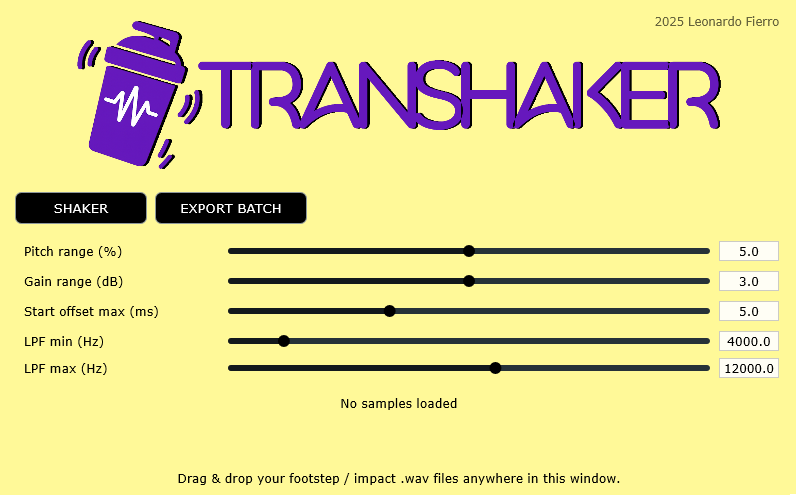
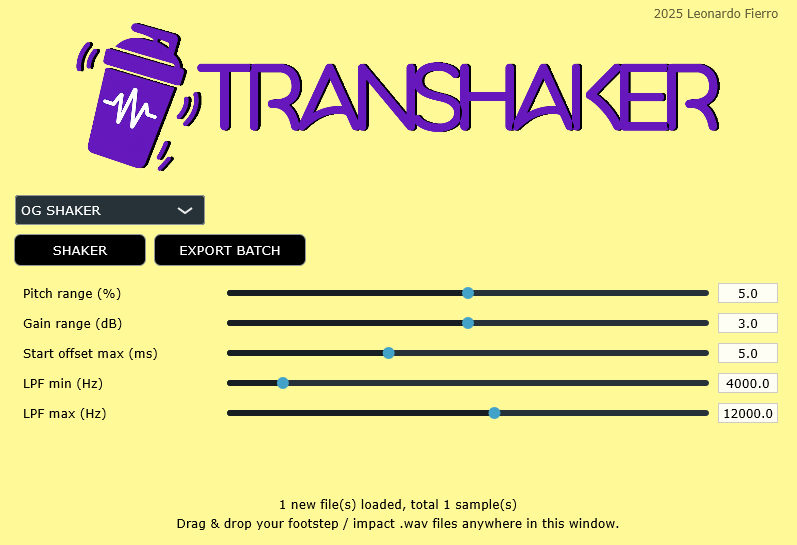
Updated readme for velvet noise randomizer

Changed region(s): [[0.0, 0.0303, 0.995, 0.8485], [0.2111, 0.9091, 0.7839, 1.0], [0.8141, 0.0, 0.995, 0.0606]]

diff --git a/README.md b/README.md
@@ -1,7 +1,7 @@
 # 🥁😵💫 Transhaker (aka Transient Shaker) 
 *A JUCE-based tiny tool for procedural transients variation generation. Oriented for game audio design.*
 
-Repetitive transients used as sound effects (footsteps, gunshots, UI clicks) kill realism fast. Why not add some variation to them?
+Repetitive transients used as sound effects (footsteps, gunshots, UI clicks) kill realism fast. **Transhaker** procedurally generates natural variations from any one-shot sound effect.
 
 ![Transhaker UI](Docs/screenshot_ui.png)
 
@@ -9,6 +9,13 @@ Repetitive transients used as sound effects (footsteps, gunshots, UI clicks) kil
 
 ## 🎯 Overview
 **Transhaker** is a standalone audio tool built with JUCE that generates natural-sounding variations of one-shot sound effects typically used in game audio, e.g. footsteps, crashes, impacts, gunshots, knocks, or any others transients.
+
+It supports two distinct processing modes:
+
+| Mode | Description |
+|------|--------------|
+| 🧂 **OG Shaker** | Classic transient randomization: pitch, gain, start offset, and low-pass filtering. |
+| 🪶 **Velvet Shaker** | Based on *velvet noise decorrelation* from [Fagerström et al., DAFx20in21](#-reference), creating subtle phase and timing microvariations for more organic results. |
 
 The goal of this mini project is to create a lightweight standalone tool with a fast and intuitive way to produce multiple believable variations from a single input sound, ready for use in FMOD, Wwise, or Unity.
 
@@ -19,21 +26,29 @@ The goal of this mini project is to create a lightweight standalone tool with a 
 |-----------|-------------|
 | 🎚 Randomization | Each playback varies in **gain**, **pitch**, **transient start offset**, and **low-pass filtering** |
 | ⚡ Real-time preview | Click **SHAKER** to instantly audition randomized versions |
+| 🧠 Dual processing modes | Switch between *OG SHAKER* (classic) and *VELVET SHAKER* (velvet noise decorrelation) |
 | 📁 Drag & drop import | Drop any `.wav` file (or multiple) into the window to load them into the sample pool |
 | 📦 Batch export | Generate 20 randomized variations offline with **EXPORT BATCH** — saved as individual `.wav` files |
-| 🎨 Custom UI | Lemon-yellow interface, clean black typography, large controls for quick parameter adjustment |
 | 🧠 Built for pipelines | Produces consistent variation assets for middleware (FMOD, Wwise) or procedural playback in engines (Unity, Unreal) |
 
 ---
 
 ## 🧩 Parameters
+
+### OG SHAKER
 | Control | Range | Effect |
 |----------|--------|--------|
 | **Pitch range (%)** | 0–10 | Random ±% pitch shift (resampling) |
-| **Gain range (dB)** | 0–6 | Random ± dB volume |
+| **Gain range (dB)** | 0–6 | Random ± dB volume change |
 | **Start offset max (ms)** | 0–15 | Random skip at sample start — simulates slightly different transient attacks |
-| **LPF min (Hz)** | 2 000–20 000 | Lower limit of random low-pass cutoff |
-| **LPF max (Hz)** | 2 000–20 000 | Upper limit of random low-pass cutoff |
+| **LPF min (Hz)** | 2 000–20 000 | Lower limit for random low-pass cutoff |
+| **LPF max (Hz)** | 2 000–20 000 | Upper limit for random low-pass cutoff |
+
+### VELVET SHAKER
+| Control | Range | Effect |
+|----------|--------|--------|
+| **Velvet Strength** | 0.0–0.3 | Mix amount for the decorrelated (velvet noise) component |
+| **Delay Range (ms)** | 2–20 | Random delay window for decorrelator taps — higher values create more diffuse texture |
 
 ---
 
@@ -47,6 +62,20 @@ Transhaker is composed of lightweight JUCE components:
 | `OfflineRenderer` | Renders multiple randomized samples offline and writes to disk |
 | `AudioFileWriter` | Utility for 24-bit WAV file export |
 | `MainComponent` | Manages UI, parameters, and audio routing |
+
+---
+
+## 🪶 Velvet Noise Decorrelator
+The *Velvet Shaker* mode implements an adaptation of the **velvet noise decorrelation technique** introduced by  
+**Jon Fagerström, Sebastian Gäbel, and Vesa Välimäki**,  
+in their paper:
+
+> *T. Fagerström, S. Gäbel, and V. Välimäki, “One-to-Many: Augmenting Audio Datasets with Velvet Noise Decorrelators,” in Proc. of the 24th International Conference on Digital Audio Effects (DAFx20in21), Vienna, Austria, 2021.*
+
+The method uses sparse sequences of ±1 impulses (velvet noise) with randomized delay distributions to produce perceptually decorrelated versions of the same sound, maintaining timbral identity while introducing natural micro-differences — ideal for procedural asset augmentation and dataset expansion.
+
+For reference, the original MATLAB implementation by the authors is available at:  
+👉 [https://github.com/Ion3rik/one2many](https://github.com/Ion3rik/one2many)
 
 ---
 
@@ -69,7 +98,7 @@ Transhaker is composed of lightweight JUCE components:
 ## 🎧 Usage
 1. **Run Transhaker.**
 2. **Drag & drop** one or more `.wav` files (mono or stereo).
-3. Adjust sliders to define variation ranges.
+3. Adjust parameters.
 4. Press **SHAKER** → hear a random variation live.
 5. Press **EXPORT BATCH** → choose a folder → get 20 rendered variations.
 
@@ -81,3 +110,7 @@ Transhaker is composed of lightweight JUCE components:
 * add UI oscilloscope / waveform preview of the chosen sample 
 * add JSON preset export for game engines
 * add loudness normalization (dBFS)
+
+---
+
+2025 - Leonardo Fierro - Built with JUCE and good transient energy.
